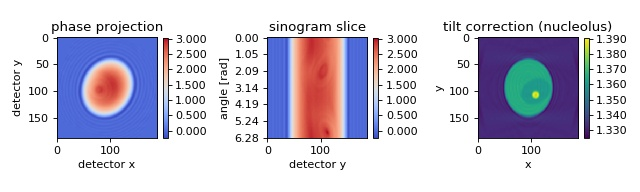
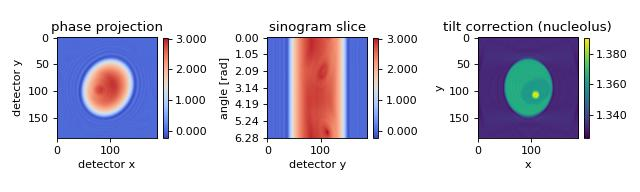
docs: update example scripts and images

diff --git a/tests/test_alg3d_bppt.py b/tests/test_alg3d_bppt.py
@@ -14,14 +14,14 @@ def test_3d_backprop_phase_real():
     rref = list()
     for p in parameters:
         fref = odtbrain.backpropagate_3d(sino, angles, padval=0,
-                                         dtype=np.float64, onlyreal=True, **p)
+                                         dtype=float, onlyreal=True, **p)
         rref.append(cutout(fref))
     dataref = np.array(rref).flatten().view(float)
 
     r = list()
     for p in parameters:
         f = odtbrain.backpropagate_3d_tilted(sino, angles, padval=0,
-                                             dtype=np.float64, onlyreal=True,
+                                             dtype=float, onlyreal=True,
                                              **p)
         r.append(cutout(f))
     data = np.array(r).flatten().view(float)
@@ -35,14 +35,14 @@ def test_3d_backprop_pad():
     rref = list()
     for p in parameters:
         fref = odtbrain.backpropagate_3d(sino, angles, padval="edge",
-                                         dtype=np.float64, onlyreal=False, **p)
+                                         dtype=float, onlyreal=False, **p)
         rref.append(cutout(fref))
     dataref = np.array(rref).flatten().view(float)
 
     r = list()
     for p in parameters:
         f = odtbrain.backpropagate_3d_tilted(sino, angles, padval="edge",
-                                             dtype=np.float64, onlyreal=False,
+                                             dtype=float, onlyreal=False,
                                              **p)
         r.append(cutout(f))
     data = np.array(r).flatten().view(float)
@@ -79,7 +79,7 @@ def test_3d_backprop_plane_rotation():
                                                     padval="edge",
                                                     tilted_axis=tilted_axis,
                                                     padding=(False, False),
-                                                    dtype=np.float64,
+                                                    dtype=float,
                                                     onlyreal=False,
                                                     **p)
             rref.append(cutout(fref))
@@ -117,7 +117,7 @@ def test_3d_backprop_plane_alignment_along_axes():
                                                 padval="edge",
                                                 tilted_axis=tilted_axis,
                                                 padding=(False, False),
-                                                dtype=np.float64,
+                                                dtype=float,
                                                 onlyreal=True,
                                                 **p)
         results.append(fref)

diff --git a/tests/test_alg3d_bpp.py b/tests/test_alg3d_bpp.py
@@ -22,7 +22,7 @@ def test_3d_backprop_phase():
     r = list()
     for p in parameters:
         f = odtbrain.backpropagate_3d(sino, angles, padval=0,
-                                      dtype=np.float64, **p)
+                                      dtype=float, **p)
         r.append(cutout(f))
     if WRITE_RES:
         write_results(myframe, r)
@@ -43,7 +43,7 @@ def test_3d_backprop_nopadreal():
     r = list()
     for p in parameters:
         f = odtbrain.backpropagate_3d(sino, angles, padding=(False, False),
-                                      dtype=np.float64, onlyreal=True, **p)
+                                      dtype=float, onlyreal=True, **p)
         r.append(cutout(f))
     if WRITE_RES:
         write_results(myframe, r)
@@ -74,14 +74,14 @@ def test_3d_backprop_real():
     r = list()
     for p in parameters:
         f = odtbrain.backpropagate_3d(sino, angles, padval=0,
-                                      dtype=np.float64,
+                                      dtype=float,
                                       onlyreal=False, **p)
         r.append(f)
     # real
     r2 = list()
     for p in parameters:
         f = odtbrain.backpropagate_3d(sino, angles, padval=0,
-                                      dtype=np.float64,
+                                      dtype=float,
                                       onlyreal=True, **p)
         r2.append(f)
     assert np.allclose(np.array(r).real, np.array(r2))

diff --git a/tests/test_save_memory.py b/tests/test_save_memory.py
@@ -13,14 +13,14 @@ def test_back3d():
     r = list()
     for p in parameters:
         f = odtbrain.backpropagate_3d(sino, angles, padval=0,
-                                      dtype=np.float64,
+                                      dtype=float,
                                       save_memory=False, **p)
         r.append(f)
     # real
     r2 = list()
     for p in parameters:
         f = odtbrain.backpropagate_3d(sino, angles, padval=0,
-                                      dtype=np.float64,
+                                      dtype=float,
                                       save_memory=True, **p)
         r2.append(f)
     assert np.allclose(np.array(r), np.array(r2))
@@ -33,14 +33,14 @@ def test_back3d_tilted():
     r = list()
     for p in parameters:
         f = odtbrain.backpropagate_3d_tilted(sino, angles, padval=0,
-                                             dtype=np.float64,
+                                             dtype=float,
                                              save_memory=False, **p)
         r.append(f)
     # real
     r2 = list()
     for p in parameters:
         f = odtbrain.backpropagate_3d_tilted(sino, angles, padval=0,
-                                             dtype=np.float64,
+                                             dtype=float,
                                              save_memory=True, **p)
         r2.append(f)
 

diff --git a/examples/backprop_from_mie_2d_weights_angles.py b/examples/backprop_from_mie_2d_weights_angles.py
@@ -15,7 +15,7 @@ weights. The keyword argument `weight_angles` was introduced in version
 """
 import matplotlib.pylab as plt
 import numpy as np
-import unwrap
+from skimage.restoration import unwrap_phase
 
 import odtbrain as odt
 
@@ -75,7 +75,7 @@ u_sinR = odt.sinogram_as_rytov(sino / u0)
 remove200 = np.argsort(angles % .0002)[:50]
 angles200 = np.delete(angles, remove200, axis=0)
 u_sinR200 = np.delete(u_sinR, remove200, axis=0)
-ph200 = unwrap.unwrap(np.angle(sino / u0))
+ph200 = unwrap_phase(np.angle(sino / u0))
 ph200[remove200] = 0
 
 fR200 = odt.backpropagate_2d(u_sinR200, angles200, res, nmed, lD*res)
@@ -88,7 +88,7 @@ nR200nw = odt.odt_to_ri(fR200nw, res, nmed)
 remove50 = np.argsort(angles % .0002)[:200]
 angles50 = np.delete(angles, remove50, axis=0)
 u_sinR50 = np.delete(u_sinR, remove50, axis=0)
-ph50 = unwrap.unwrap(np.angle(sino / u0))
+ph50 = unwrap_phase(np.angle(sino / u0))
 ph50[remove50] = 0
 
 fR50 = odt.backpropagate_2d(u_sinR50, angles50, res, nmed, lD*res)
@@ -103,7 +103,8 @@ kw_ri = {"vmin": 1.330,
 
 kw_ph = {"vmin": np.min(np.array([ph200, ph50])),
          "vmax": np.max(np.array([ph200, ph50])),
-         "cmap": "coolwarm"}
+         "cmap": "coolwarm",
+         "interpolation": "none"}
 
 fig, axes = plt.subplots(2, 3, figsize=(8, 4))
 axes = np.array(axes).flatten()

diff --git a/tests/test_apple.py b/tests/test_apple.py
@@ -31,7 +31,7 @@ def test_correct_counter():
     sino, angles = create_test_sino_3d(Nx=10, Ny=10)
     p = get_test_parameter_set(1)[0]
     f = odtbrain.backpropagate_3d(sino, angles, padval=0,
-                                  dtype=np.float64,
+                                  dtype=float,
                                   copy=False, **p)
     odtbrain.apple.correct(f=f,
                            res=p["res"],
@@ -51,7 +51,7 @@ def test_correct_reproduce():
     p = get_test_parameter_set(1)[0]
     sryt = odtbrain.sinogram_as_rytov(uSin=sino, u0=1, align=False)
     f = odtbrain.backpropagate_3d(sryt, angles, padval=0,
-                                  dtype=np.float64,
+                                  dtype=float,
                                   copy=False, **p)
     fc = odtbrain.apple.correct(f=f,
                                 res=p["res"],
@@ -73,7 +73,7 @@ def test_correct_values():
     sino, angles = create_test_sino_3d(Nx=10, Ny=10)
     p = get_test_parameter_set(1)[0]
     f = odtbrain.backpropagate_3d(sino, angles, padval=0,
-                                  dtype=np.float64,
+                                  dtype=float,
                                   copy=False, **p)
     try:
         odtbrain.apple.correct(f=f,

diff --git a/tests/test_copy.py b/tests/test_copy.py
@@ -11,10 +11,10 @@ def test_back3d():
     p = get_test_parameter_set(1)[0]
     # complex
     f1 = odtbrain.backpropagate_3d(sino, angles, padval=0,
-                                   dtype=np.float64,
+                                   dtype=float,
                                    copy=False, **p)
     f2 = odtbrain.backpropagate_3d(sino, angles, padval=0,
-                                   dtype=np.float64,
+                                   dtype=float,
                                    copy=True, **p)
     assert np.allclose(f1, f2)
 
@@ -23,10 +23,10 @@ def test_back3d_tilted():
     sino, angles = create_test_sino_3d(Nx=10, Ny=10)
     p = get_test_parameter_set(1)[0]
     f1 = odtbrain.backpropagate_3d_tilted(sino, angles, padval=0,
-                                          dtype=np.float64,
+                                          dtype=float,
                                           copy=False, **p)
     f2 = odtbrain.backpropagate_3d_tilted(sino, angles, padval=0,
-                                          dtype=np.float64,
+                                          dtype=float,
                                           copy=True, **p)
     assert np.allclose(f1, f2)
 

diff --git a/examples/backprop_from_mie_2d_incomplete_coverage.py b/examples/backprop_from_mie_2d_incomplete_coverage.py
@@ -120,7 +120,8 @@ kw_ri = {"vmin": np.min(np.array([phantom, nRmiss.real, nReven.real])),
 
 kw_ph = {"vmin": np.min(np.array([pheven, phmiss])),
          "vmax": np.max(np.array([pheven, phmiss])),
-         "cmap": "coolwarm"}
+         "cmap": "coolwarm",
+         "interpolation": "none"}
 
 fig, axes = plt.subplots(3, 3, figsize=(8, 6.5))
 

diff --git a/examples/generate_example_images.py b/examples/generate_example_images.py
@@ -19,7 +19,7 @@ if __name__ == "__main__":
     files = sorted([op.join(thisdir, f) for f in files])
 
     for f in files:
-        fname = f[:-3] + ".jpg"
+        fname = f[:-3] + "_.jpg"
         if not op.exists(fname):
             exec_str = open(f).read()
             if exec_str.count("plt.show()"):
